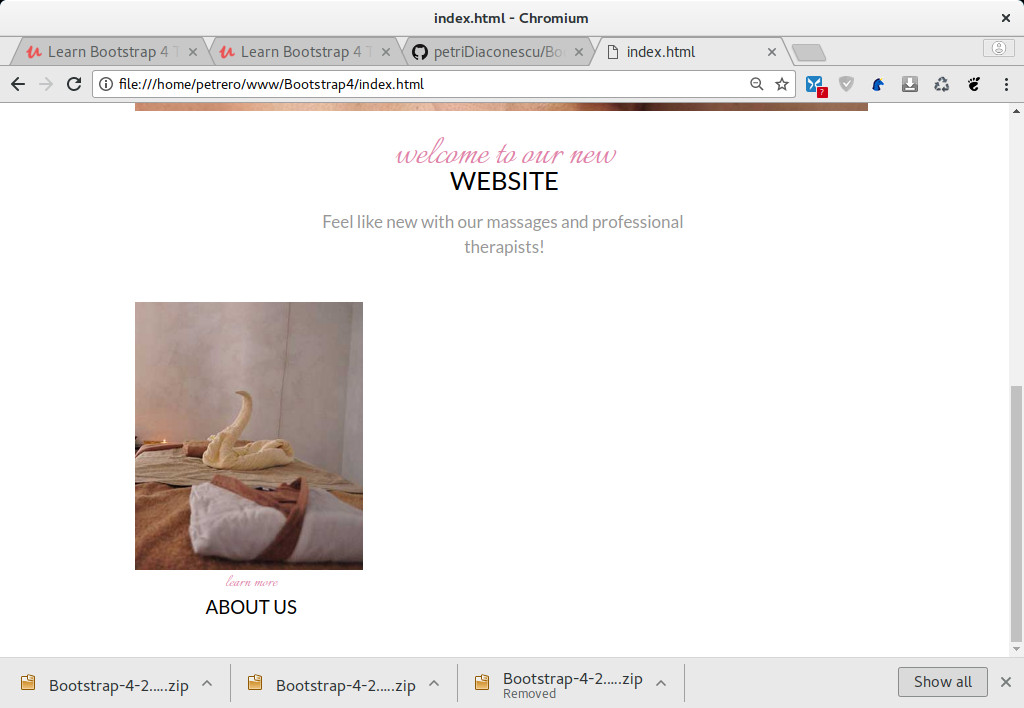
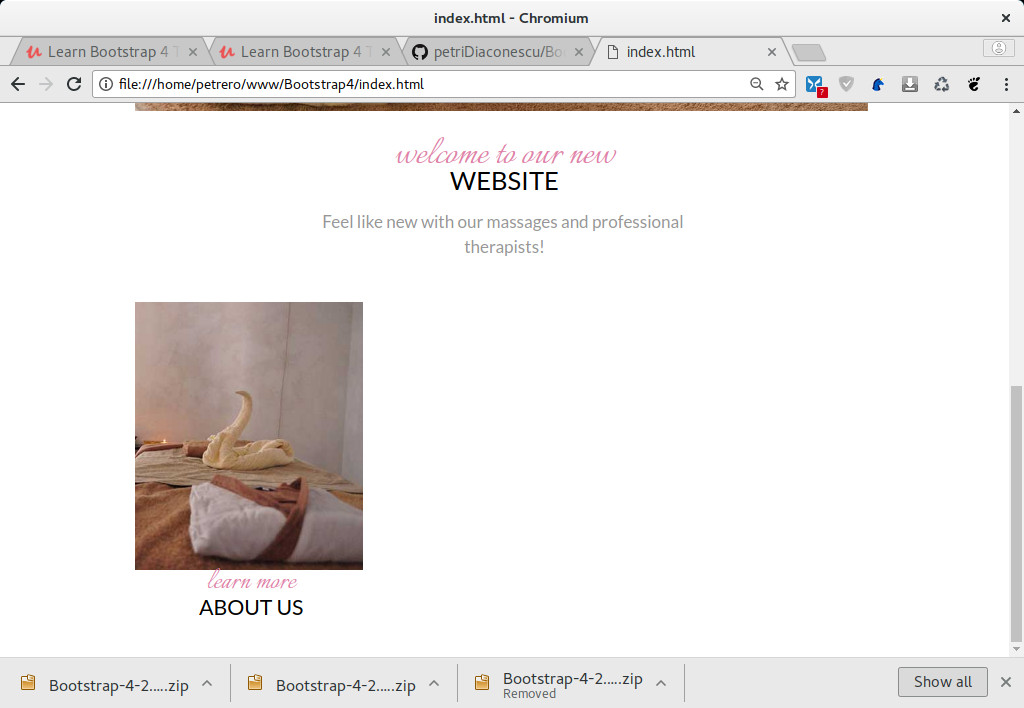
Modify h3 tag style to make our layout to resemble with the intended psd layout.

Changed region(s): [[0.125, 0.1243, 0.8125, 0.1554], [0.1875, 0.8079, 0.3125, 0.8701]]

diff --git a/css/styles.css b/css/styles.css
@@ -7,6 +7,14 @@ h2 span {
   font-size: 4rem;
 }
 
+h3 {
+  font-size: 2rem;
+}
+
+h3 span {
+  font-size: 3rem;
+}
+
 h2, h3 {
   font-family: 'Lato', sans-serif;
   color: black;
